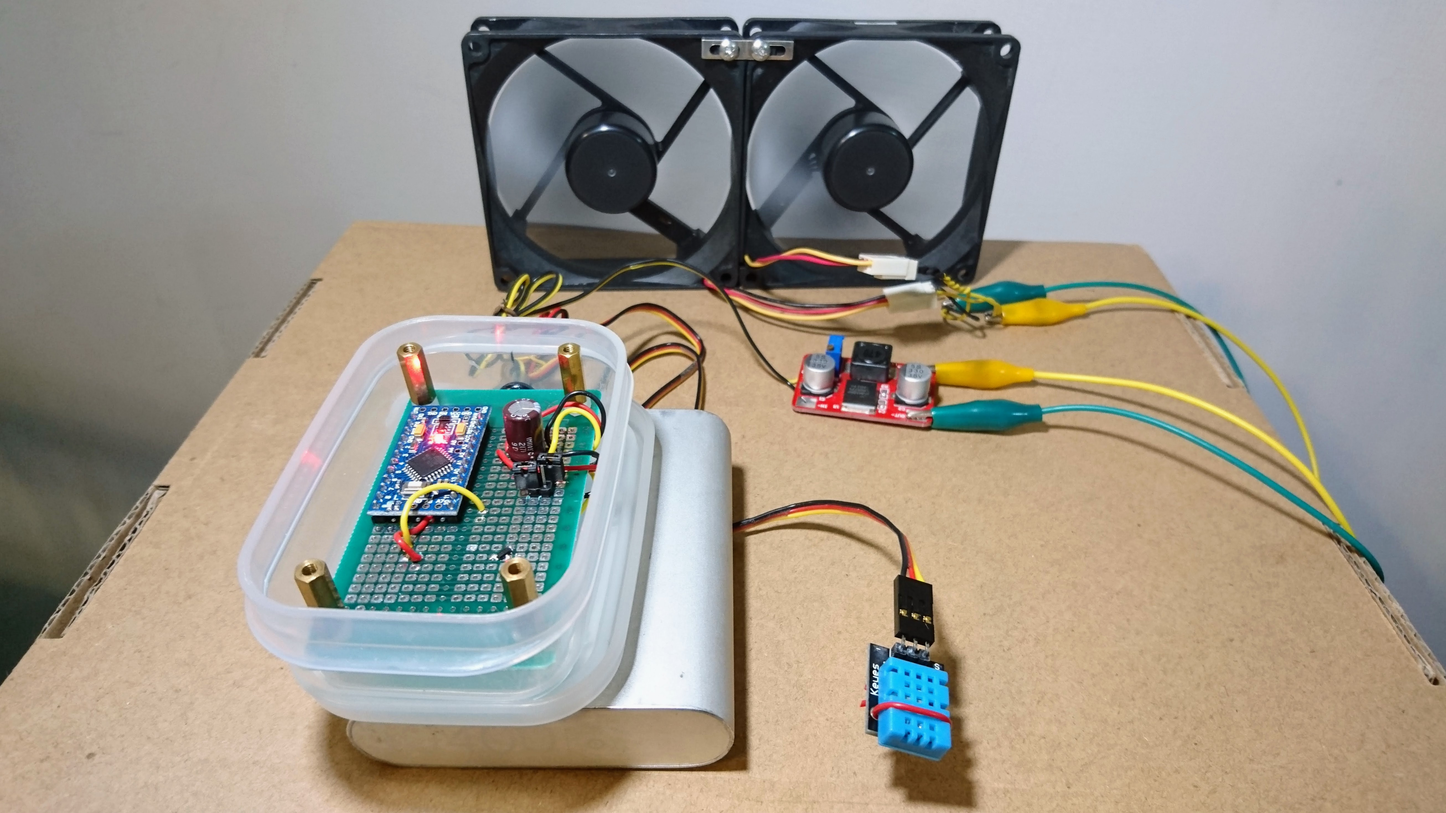
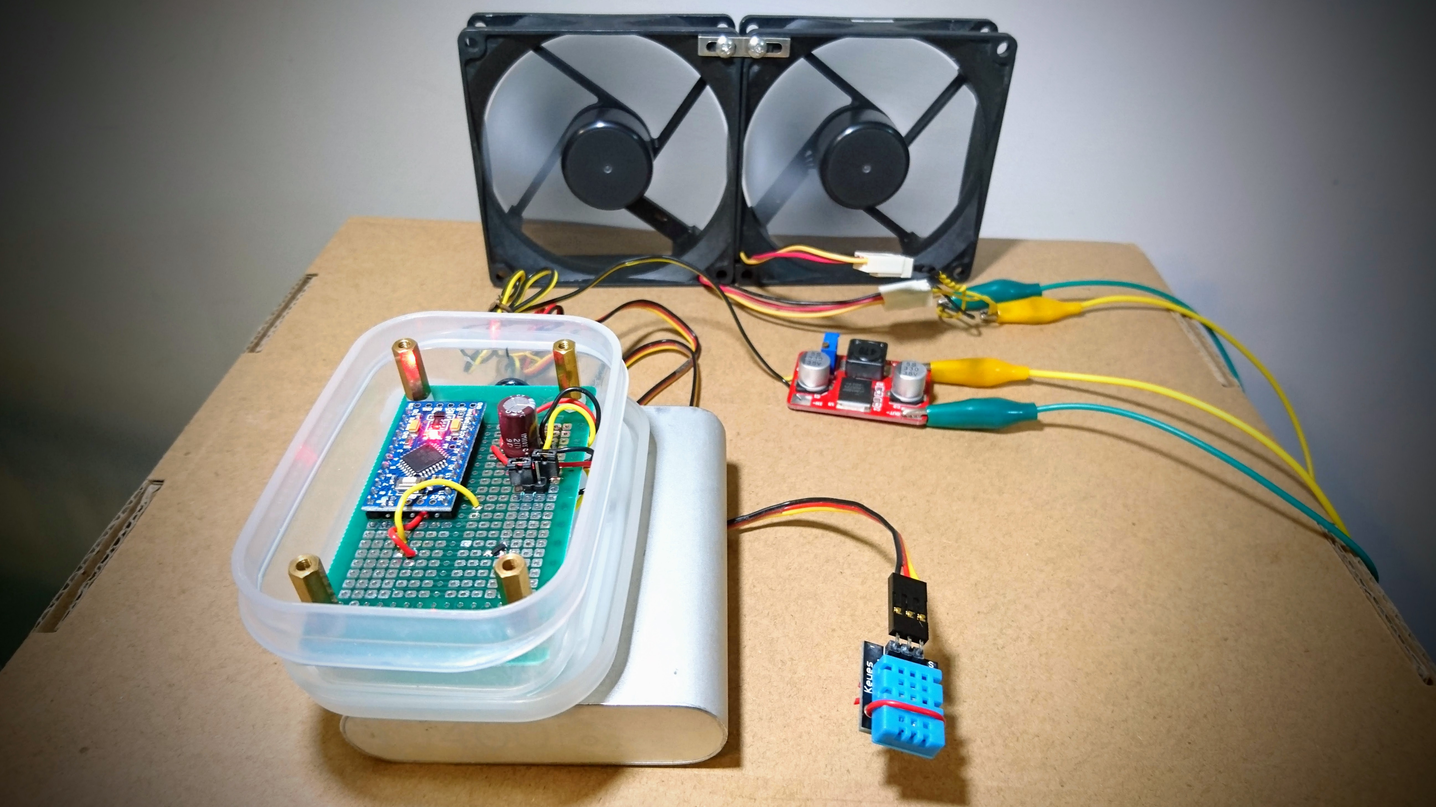
embed new photo

diff --git a/README.en.md b/README.en.md
@@ -2,6 +2,7 @@
 A portable exhaust fan with sensing and auto-shutdown function   
 Let's get rid of mushrooms growing in bathroom from now on!
 
+ ![Automatic-Exhaust-Fan][closeup]   
 
 **Features**
 * Avoid using AC adapter in a humid environment.   
@@ -41,8 +42,9 @@ Let's get rid of mushrooms growing in bathroom from now on!
   
 *Read this in other languages: [English](README.en.md), [正體中文](README.md).*  
 
-   [sch]: <https://rawgit.com/dcadc/Automatic-Exhaust-Fan/master/images/sch.png>
-   [sch-pdf]: <https://rawgit.com/dcadc/Automatic-Exhaust-Fan/master/hardware/AutoExhaustFan.pdf>
-   [photos]: <https://github.com/dcadc/Automatic-Exhaust-Fan/tree/master/images/photos>
-   [sw]: <https://github.com/dcadc/Automatic-Exhaust-Fan/tree/master/software/AutoExhaustFan>
-   [libs]: <https://playground.arduino.cc/Main/DHT11Lib>
+   [sch]:		<https://rawgit.com/dcadc/Automatic-Exhaust-Fan/master/images/sch.png>
+   [sch-pdf]:	<https://rawgit.com/dcadc/Automatic-Exhaust-Fan/master/hardware/AutoExhaustFan.pdf>
+   [photos]:	<https://github.com/dcadc/Automatic-Exhaust-Fan/tree/master/images/photos>
+   [closeup]:	<https://rawgit.com/dcadc/Automatic-Exhaust-Fan/master/master/images/photos/full_set.JPG>
+   [sw]:		<https://github.com/dcadc/Automatic-Exhaust-Fan/tree/master/software/AutoExhaustFan>
+   [libs]:		<https://playground.arduino.cc/Main/DHT11Lib>

diff --git a/README.md b/README.md
@@ -1,6 +1,7 @@
 # 開後不理抽風機
 一個能偵測/紀錄溫溼度、自動關機的簡易抽風系統，讓你擺脫浴室裡面長香菇的惡夢   
 
+ ![開後不理抽風機][closeup]   
 
 **功能特色**
 * 避免使用浴室內的AC插座   
@@ -44,8 +45,9 @@
 *Read this in other languages: [English](README.en.md), [正體中文](README.md).*  
 
 
-   [sch]: <https://rawgit.com/dcadc/Automatic-Exhaust-Fan/master/images/sch.png>
-   [sch-pdf]: <https://rawgit.com/dcadc/Automatic-Exhaust-Fan/master/hardware/AutoExhaustFan.pdf>
-   [photos]: <https://github.com/dcadc/Automatic-Exhaust-Fan/tree/master/images/photos>
-   [sw]: <https://github.com/dcadc/Automatic-Exhaust-Fan/tree/master/software/AutoExhaustFan>
-   [libs]: <https://playground.arduino.cc/Main/DHT11Lib>
+   [sch]:		<https://rawgit.com/dcadc/Automatic-Exhaust-Fan/master/images/sch.png>
+   [sch-pdf]:	<https://rawgit.com/dcadc/Automatic-Exhaust-Fan/master/hardware/AutoExhaustFan.pdf>
+   [photos]:	<https://github.com/dcadc/Automatic-Exhaust-Fan/tree/master/images/photos>
+   [closeup]:	<https://rawgit.com/dcadc/Automatic-Exhaust-Fan/master/master/images/photos/full_set.JPG>
+   [sw]:		<https://github.com/dcadc/Automatic-Exhaust-Fan/tree/master/software/AutoExhaustFan>
+   [libs]:		<https://playground.arduino.cc/Main/DHT11Lib>
